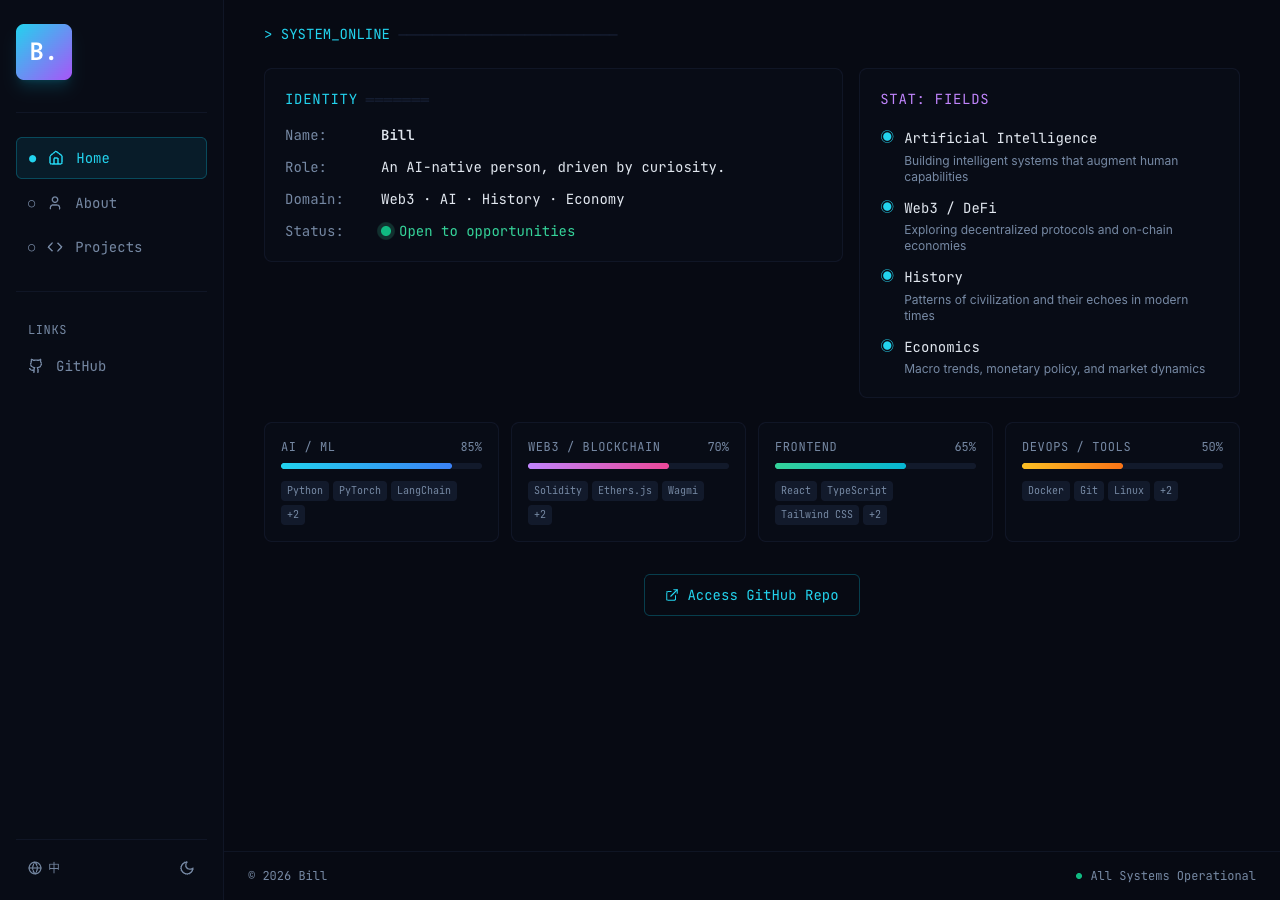
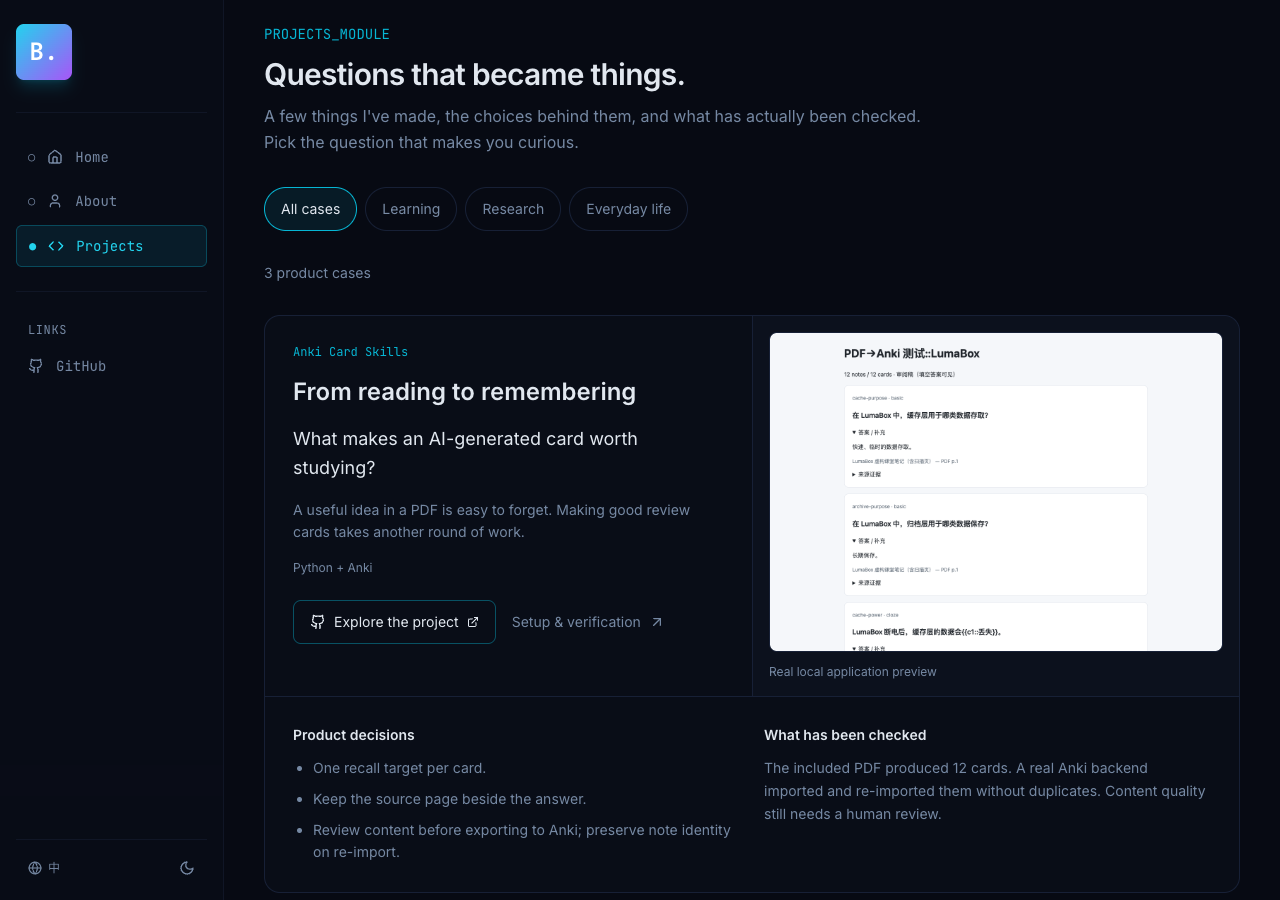
feat: improve product showcases and family voice follow-up

diff --git a/frontend/src/pages/Projects/Projects.jsx b/frontend/src/pages/Projects/Projects.jsx
@@ -1,30 +1,98 @@
+import { useState } from "react";
 import { useTranslation } from "react-i18next";
-import ProjectPlaceholder from "@/components/Panels/ProjectPlaceholder";
+import { ExternalLink, Github, ArrowUpRight } from "lucide-react";
 import { motion } from "motion/react";
+import { collections, projectCategories, projects } from "@/data/projectsData";
 
 export default function Projects() {
-  const { t } = useTranslation();
+  const { t, i18n } = useTranslation();
+  const lang = i18n.resolvedLanguage === "zh" ? "zh" : "en";
+  const [category, setCategory] = useState("all");
+  const visible = projects.filter((project) => category === "all" || project.category === category);
 
   return (
-    <div className="space-y-6">
-      {/* Module Header */}
-      <motion.div
-        initial={{ opacity: 0, y: -10 }}
-        animate={{ opacity: 1, y: 0 }}
-        className="font-mono text-sm text-cyan-400"
-      >
-        {">"} {t("projects.title")}
-        <span className="text-border"> ──────────────────────────</span>
-      </motion.div>
-
-      {/* Placeholder */}
-      <motion.div
-        initial={{ opacity: 0, y: 10 }}
-        animate={{ opacity: 1, y: 0 }}
-        transition={{ delay: 0.1 }}
-      >
-        <ProjectPlaceholder />
-      </motion.div>
+    <div className="space-y-8">
+      <motion.header initial={{ opacity: 0, y: -10 }} animate={{ opacity: 1, y: 0 }} className="space-y-3">
+        <p className="font-mono text-sm text-cyan-500">{t("projects.title")}</p>
+        <h1 className="text-3xl font-semibold tracking-tight">{t("projects.heading")}</h1>
+        <p className="max-w-2xl text-muted-foreground">{t("projects.intro")}</p>
+      </motion.header>
+      <div className="flex flex-wrap gap-2" role="group" aria-label={t("projects.filter")}>
+        {["all", ...projectCategories].map((id) => (
+          <button key={id} type="button" aria-pressed={category === id} onClick={() => setCategory(id)}
+            className={`min-h-11 rounded-full border px-4 py-2 text-sm transition-colors ${category === id ? "border-cyan-500 bg-cyan-500/10 text-foreground" : "border-border text-muted-foreground hover:text-foreground"}`}>
+            {t(`projects.categories.${id}`)}
+          </button>
+        ))}
+      </div>
+      <p className="text-sm text-muted-foreground" role="status">{t("projects.count", { count: visible.length })}</p>
+      <div className="space-y-6">
+        {visible.map((project) => (
+          <article key={project.id} id={project.id} className="overflow-hidden rounded-2xl border border-border bg-card/70">
+            <div className="grid lg:grid-cols-2">
+              <div className="space-y-4 p-5 sm:p-7">
+                <p className="font-mono text-xs text-cyan-500">{project.product}</p>
+                <h2 className="text-2xl font-semibold">{project.name[lang]}</h2>
+                <p className="text-lg leading-relaxed">{project.question[lang]}</p>
+                <p className="text-sm leading-relaxed text-muted-foreground">{project.problem[lang]}</p>
+                <p className="text-xs text-muted-foreground">{project.requirement[lang]}</p>
+                <div className="flex flex-wrap gap-3 pt-2">
+                  <a href={project.showcase ? `https://github.com/Bill306/Bill306/blob/main/projects/tripsplit/${lang === "zh" ? "README.zh-CN.md" : "README.md"}` : `https://github.com/Bill306/${project.repo}`} target="_blank" rel="noopener noreferrer" className="inline-flex min-h-11 items-center gap-2 rounded-lg border border-cyan-500/40 px-4 py-2 text-sm hover:bg-cyan-500/10">
+                    <Github className="h-4 w-4" /> {t("projects.source")}<ExternalLink className="h-3 w-3" />
+                  </a>
+                  {!project.showcase && <a href={`https://github.com/Bill306/${project.repo}/blob/main/${lang === "zh" ? "README.zh-CN.md" : "README.md"}`} target="_blank" rel="noopener noreferrer" className="inline-flex min-h-11 items-center gap-2 px-1 text-sm text-muted-foreground hover:text-foreground">
+                    {t("projects.guide")}<ArrowUpRight className="h-4 w-4" />
+                  </a>}
+                </div>
+              </div>
+              {project.image ? (
+                <figure className="flex flex-col justify-center border-t border-border bg-muted/30 p-4 lg:border-l lg:border-t-0">
+                  <img src={project.image} alt={`${project.product} — ${t("projects.preview")}`} loading="lazy" width="1280" height="900" className="h-auto w-full rounded-lg border border-border" />
+                  <figcaption className="mt-3 text-xs text-muted-foreground">{t("projects.preview")}</figcaption>
+                </figure>
+              ) : (
+                <div className="flex flex-col justify-center gap-4 border-t border-border bg-muted/30 p-6 lg:border-l lg:border-t-0" aria-label={t("projects.journey")}>
+                  {["invite", "expense", "settle"].map((step, index) => (
+                    <div key={step} className="rounded-xl border border-border bg-card p-4">
+                      <span className="mr-3 font-mono text-cyan-500">0{index + 1}</span>{t(`projects.tripSteps.${step}`)}
+                    </div>
+                  ))}
+                </div>
+              )}
+            </div>
+            <div className="grid gap-6 border-t border-border p-5 sm:p-7 md:grid-cols-2">
+              <section>
+                <h3 className="mb-3 text-sm font-semibold">{t("projects.decisions")}</h3>
+                <ul className="list-disc space-y-2 pl-5 text-sm leading-relaxed text-muted-foreground">
+                  {project.decisions[lang].map((decision) => <li key={decision}>{decision}</li>)}
+                </ul>
+              </section>
+              <section>
+                <h3 className="mb-3 text-sm font-semibold">{t("projects.evidence")}</h3>
+                <p className="text-sm leading-relaxed text-muted-foreground">{project.evidence[lang]}</p>
+              </section>
+            </div>
+          </article>
+        ))}
+      </div>
+      <section className="space-y-4" aria-labelledby="collection-title">
+        <h2 id="collection-title" className="text-2xl font-semibold">{t("projects.collections")}</h2>
+        <p className="text-sm text-muted-foreground">{t("projects.collectionIntro")}</p>
+        <div className="grid gap-4 md:grid-cols-2">
+          {collections.map((collection) => (
+            <article key={collection.id} className="rounded-xl border border-border bg-card/60 p-5">
+              <h3 className="font-semibold">{collection.name[lang]}</h3>
+              <p className="mt-2 text-sm text-muted-foreground">{collection.description[lang]}</p>
+              <ul className="mt-4 flex flex-wrap gap-2">
+                {collection.repos.map((repo) => (
+                  <li key={repo}><a href={repo === "tripsplit-wechat-miniprogram" ? `https://github.com/Bill306/Bill306/blob/main/projects/tripsplit/${lang === "zh" ? "README.zh-CN.md" : "README.md"}` : `https://github.com/Bill306/${repo}`} target="_blank" rel="noopener noreferrer" className="inline-flex min-h-9 items-center rounded-md border border-border px-2 py-1 text-xs hover:bg-muted break-all">{repo === "tripsplit-wechat-miniprogram" ? "TripSplit · 喵喵旅账" : repo}</a></li>
+                ))}
+              </ul>
+            </article>
+          ))}
+        </div>
+        <a href={`https://github.com/Bill306/Bill306/blob/main/${lang === "zh" ? "COLLECTIONS.zh-CN.md" : "COLLECTIONS.md"}`} target="_blank" rel="noopener noreferrer" className="inline-flex min-h-11 items-center gap-2 text-sm text-cyan-500">{t("projects.collectionGuide")}<ArrowUpRight className="h-4 w-4" /></a>
+      </section>
     </div>
   );
 }

diff --git a/frontend/src/data/projectsData.js b/frontend/src/data/projectsData.js
@@ -1,0 +1,72 @@
+export const projectCategories = ["learning", "research", "everyday"];
+
+export const projects = [
+  {
+    id: "anki", category: "learning", repo: "anki-card-skills", image: "/projects/anki.png",
+    name: { en: "From reading to remembering", zh: "从读过，到记得" },
+    product: "Anki Card Skills",
+    question: { en: "What makes an AI-generated card worth studying?", zh: "AI 生成的卡片，怎样才值得认真复习？" },
+    problem: { en: "A useful idea in a PDF is easy to forget. Making good review cards takes another round of work.", zh: "PDF 里的好内容容易忘记，制作值得复习的卡片还需要额外花时间。" },
+    decisions: {
+      en: ["One recall target per card.", "Keep the source page beside the answer.", "Review content before exporting to Anki; preserve note identity on re-import."],
+      zh: ["每张卡片围绕一个记忆目标。", "答案保留对应的原始页码。", "导出前审核内容，再次导入时保留卡片身份。"],
+    },
+    evidence: {
+      en: "The included PDF produced 12 cards. A real Anki backend imported and re-imported them without duplicates. Content quality still needs a human review.",
+      zh: "仓库中的 PDF 已生成 12 张卡片，通过真实 Anki 后端导入及再次导入，数量保持不变。内容质量仍需要人工审核。",
+    },
+    requirement: { en: "Python + Anki", zh: "需要 Python 和 Anki" },
+  },
+  {
+    id: "forensics", category: "research", repo: "forensics", image: "/projects/forensics.png",
+    name: { en: "What happened behind the chart?", zh: "图表背后，发生过什么？" },
+    product: "Forensics",
+    question: { en: "How can someone follow and check an AI research process?", zh: "怎样让等待 AI 研究的人看懂过程，也能够检查结果？" },
+    problem: { en: "A chart shows movement. Understanding the events behind it needs sources, dates, and a research process people can follow.", zh: "价格图表显示变化，理解背后的事件还需要来源、日期，以及能够跟随的研究过程。" },
+    decisions: {
+      en: ["Preview the research request before generation.", "Show progress during a longer agent task.", "Keep the chart available to open or download, with a separate stock-data companion."],
+      zh: ["生成前可以预览研究请求。", "较长的 Agent 任务提供过程状态。", "图表可以打开或下载，股票数据工具作为配套项目单独维护。"],
+    },
+    evidence: {
+      en: "Sign-in, protected settings, and ticker validation were checked. The stock-data companion fetched real AAPL data and generated a chart. Full agent research needs your own model access and research Skill.",
+      zh: "登录、受保护设置和股票代码检查已通过；配套工具已获取真实 AAPL 数据并生成图表。完整 Agent 研究需要自行配置模型与研究 Skill。",
+    },
+    requirement: { en: "Python + model access + research Skill", zh: "需要 Python、模型权限与研究 Skill" },
+  },
+  {
+    id: "tripsplit", category: "everyday", repo: "tripsplit-wechat-miniprogram", showcase: true,
+    name: { en: "Less calculating. More travelling.", zh: "少算一点账，多玩一会儿。" },
+    product: "TripSplit · 喵喵旅账",
+    question: { en: "Can a group settle shared expenses without the spreadsheet argument?", zh: "怎样让朋友分清旅行费用，也照顾一起旅行的心情？" },
+    problem: { en: "One person pays for dinner, another skips an activity, and someone uses a different currency. The group still needs a fair answer.", zh: "有人垫付晚餐，有人没有参加活动，还有人使用不同币种。大家需要一个能够核对的计算结果。" },
+    decisions: {
+      en: ["Invite friends into the same trip; identify offline companions clearly.", "Keep the original amount, settlement currency, and saved exchange rate.", "Treat payment and receipt as separate confirmations; keep a record of who confirmed each step."],
+      zh: ["邀请朋友加入同一旅程，清楚标明由他人代记的成员。", "保留原币金额、结算币种和账单保存时的汇率。", "付款与收款分别确认，并保留双方的确认记录。"],
+    },
+    evidence: { en: "Explore the product flow and the choices behind shared expenses. WeChat availability is not verified here.", zh: "展示旅行记账的使用流程，以及分摊与结算背后的产品选择。微信中的开放状态尚未核查。" },
+    requirement: { en: "A WeChat mini program · product showcase", zh: "微信小程序 · 产品展示" },
+  },
+];
+
+export const collections = [
+  {
+    id: "everyday", name: { en: "Everyday life", zh: "日常生活里的小问题" },
+    description: { en: "Shared expenses and the small decisions that help people get on with their day.", zh: "从旅行费用开始，探索怎样让日常协作轻松一些。" },
+    repos: ["tripsplit-wechat-miniprogram", "option-journal"],
+  },
+  {
+    id: "research", name: { en: "Research & sensemaking", zh: "研究与理解" },
+    description: { en: "Trace a chart, question a thesis, and make room for evidence.", zh: "理解图表、追问判断，并让证据有迹可循。" },
+    repos: ["forensics", "stock-forensics-skill", "Market-News", "macro-research-pipeline", "buy-side-industry-ramp", "how-to-understand-a-industry", "grill-me-research", "storm-research", "us-tenbagger-stock-picker"],
+  },
+  {
+    id: "learning", name: { en: "Learning & making", zh: "学习与创造" },
+    description: { en: "Remember what matters, explore an idea, and make something others can use.", zh: "记住所学，探索想法，把东西做出来。" },
+    repos: ["anki-card-skills", "goal-action-coach", "decompose-and-ask", "vibe-to-github", "ai-comic-production", "skill-master"],
+  },
+  {
+    id: "conversations", name: { en: "Conversations & career", zh: "交流与职业探索" },
+    description: { en: "Prepare thoughtful questions and learn from the conversation afterward.", zh: "认真准备问题，也从每次交流中继续学习。" },
+    repos: ["coffee-chat-skills", "interview-skills"],
+  },
+];

diff --git a/README.md b/README.md
@@ -8,6 +8,12 @@ A personal website with a small mission-control daydream.
 
 A React/Vite site that presents a home panel, an about page, and a project area in a command-center visual language. The implementation includes English/Chinese navigation, theme controls, responsive navigation, and data-driven personal content.
 
+## Questions that became things
+
+The project page presents three product cases: learning with Anki, following a research process with Forensics, and sharing travel expenses with TripSplit. Each case explains the question, the product choices, and the verification boundary. Anki and Forensics include real local application previews; TripSplit opens a product walkthrough.
+
+Filter by learning, research, or everyday life. Four collections connect related repositories: everyday life, research and sensemaking, learning and making, and conversations and career. English and Chinese cover the same cases and links. Edit these entries in `frontend/src/data/projectsData.js`.
+
 ## Run locally
 
 ```bash

diff --git a/README.zh-CN.md b/README.zh-CN.md
@@ -8,6 +8,12 @@
 
 一个使用 React 和 Vite 的个人网站，包含首页面板、个人介绍和项目区域，提供中英文切换、主题控制、响应式导航，以及通过数据文件管理的个人内容。
 
+## 有些好奇，变成了可以使用的东西
+
+项目页展示三个产品案例：Anki 的学习卡片、Forensics 的研究流程，以及喵喵旅账的旅行费用协作。每个案例说明产品问题、设计选择和验证范围；Anki 与 Forensics 附有实际运行截图，喵喵旅账打开产品展示页面。
+
+可以按学习、研究和日常生活筛选案例。相关项目归入日常生活、研究与理解、学习与创造、交流与职业探索四个专题。中英文提供相同案例与对应链接，内容在 `frontend/src/data/projectsData.js` 中维护。
+
 ## 本地运行
 
 ```bash
